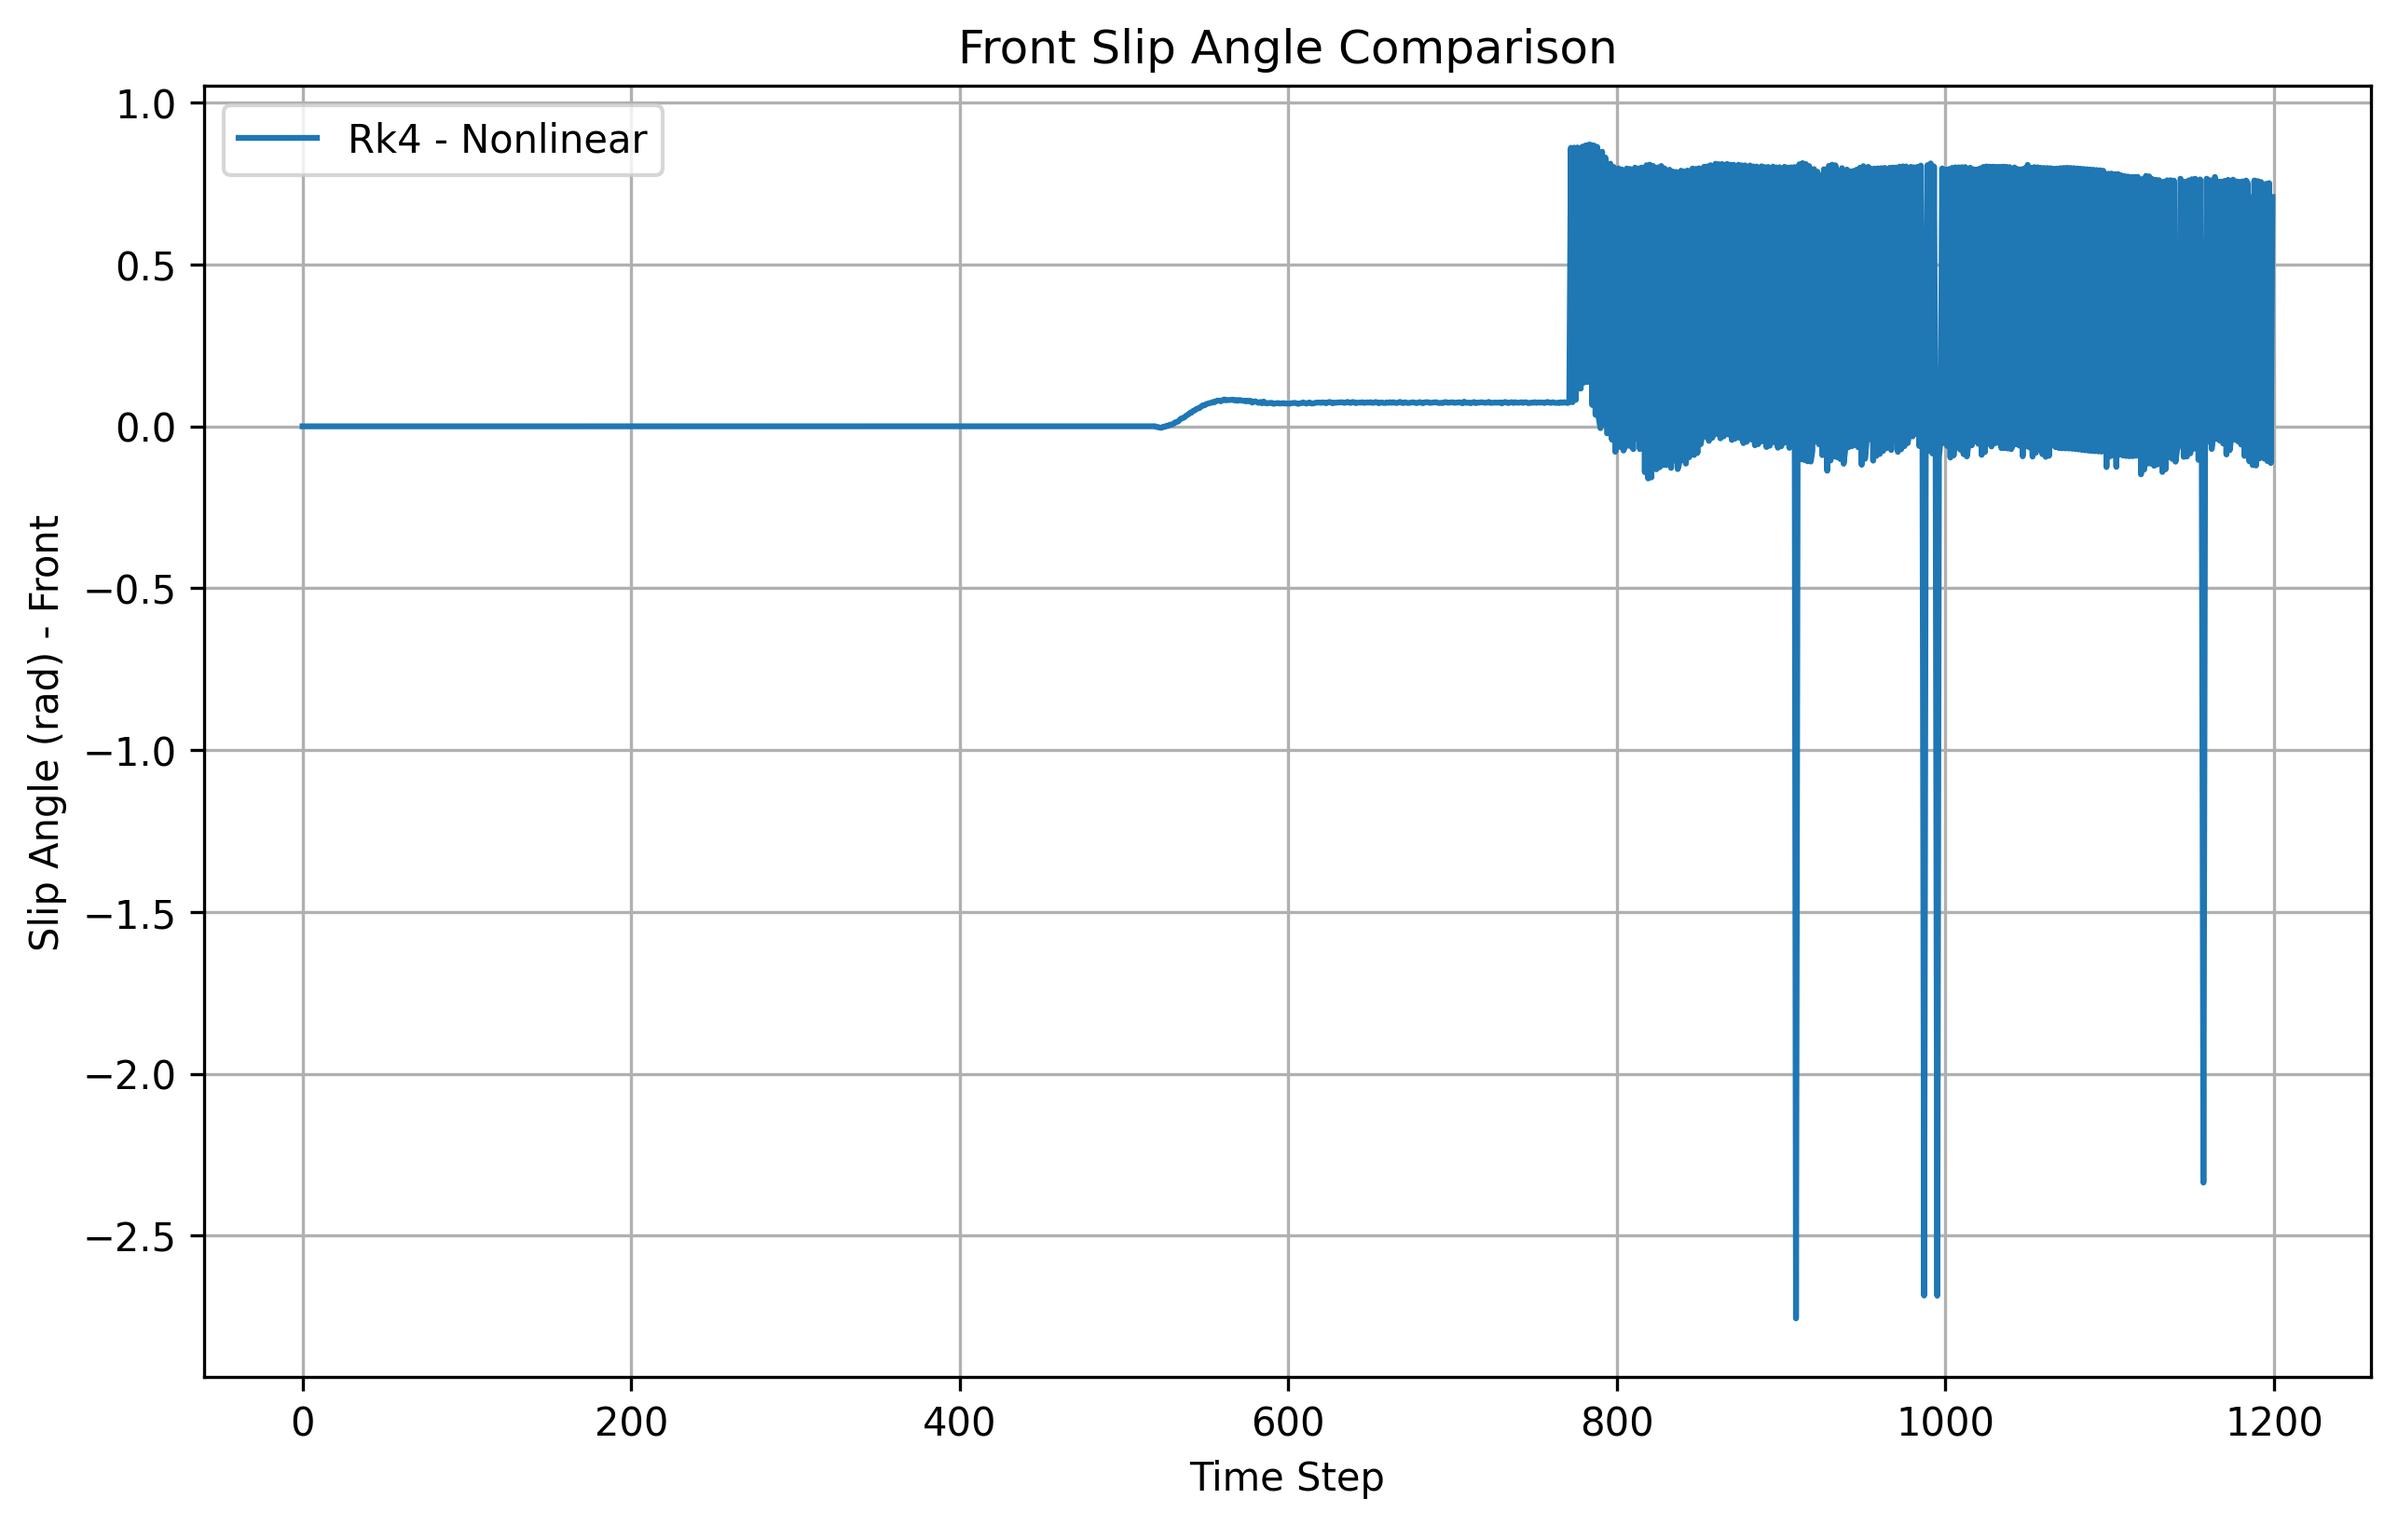
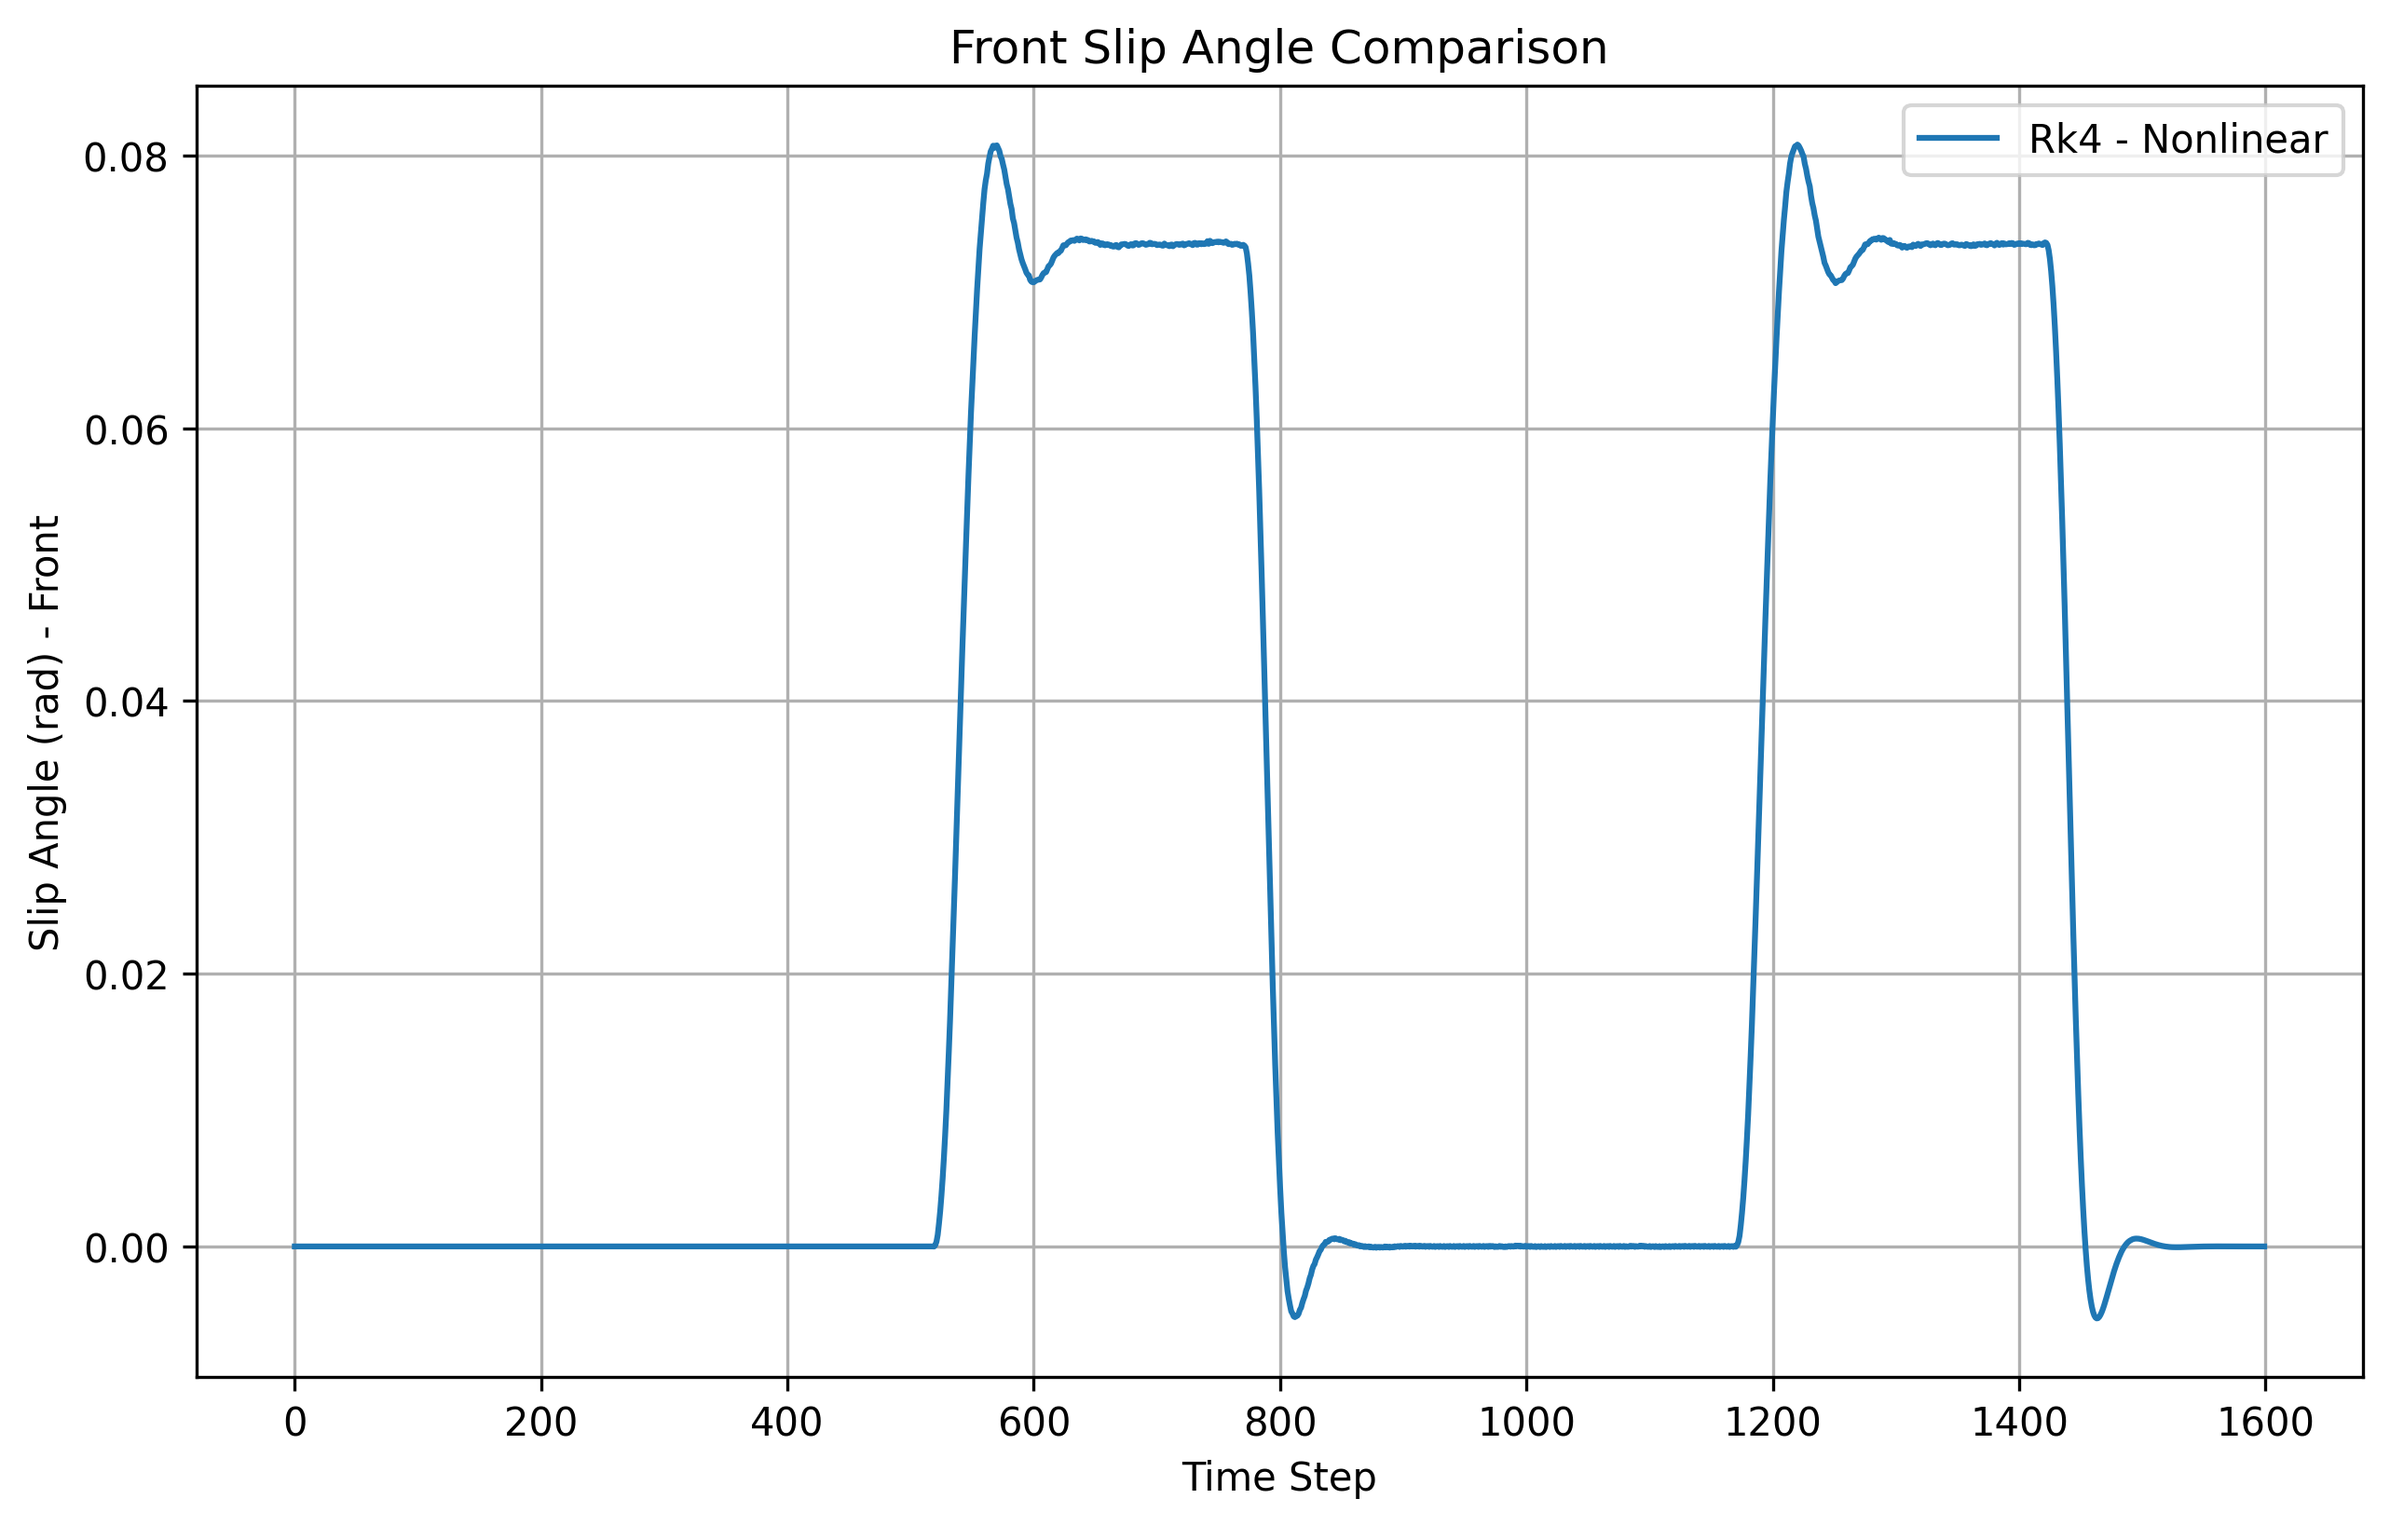
fixed MPC

diff --git a/assignment_05/mpc.py b/assignment_05/mpc.py
@@ -10,15 +10,15 @@ N = int(T/dt) # Horizon total points
 max_steer = 3.14  # Maximum steering angle in radians
 min_steer = -3.14  # Minimum steering angle in radians
 
-x_error_gain = 100 # weight on x error
-y_error_gain = 100 # weight on y error
-heading_error_gain = 3000 # weight on heading error
+x_error_gain = 50 # weight on x error
+y_error_gain = 50 # weight on y error
+heading_error_gain = 10 # weight on heading error
 
 # weight for the final prediction step. The last step should weight more than the others
 # in order to allow a certain amount of error during the process but minimize the error at the final target position
-terminal_cost = 500 
+terminal_cost = 50 
 
-steering_cost = 2000 # this indicates the cost of steering, the higher the more we want to avoid to steer
+steering_cost = 10000 # this indicates the cost of steering, the higher the more we want to avoid to steer
 
 def casadi_model():
     global F

diff --git a/assignment_05/main.py b/assignment_05/main.py
@@ -14,11 +14,11 @@ import matplotlib
 dt = 0.05         # Time step (s)
 ax = 0.0            # Constant longitudinal acceleration (m/s^2)
 steer = 0.0      # Constant steering angle (rad)
-sim_time = 110    # Simulation duration in seconds
+sim_time = 80    # Simulation duration in seconds
 steps = int(sim_time / dt)  # Simulation steps
 
 # Control references
-target_speed =23
+target_speed =29.6
 
 # Vehicle parameters
 lf = 1.156          # Distance from COG to front axle (m)
